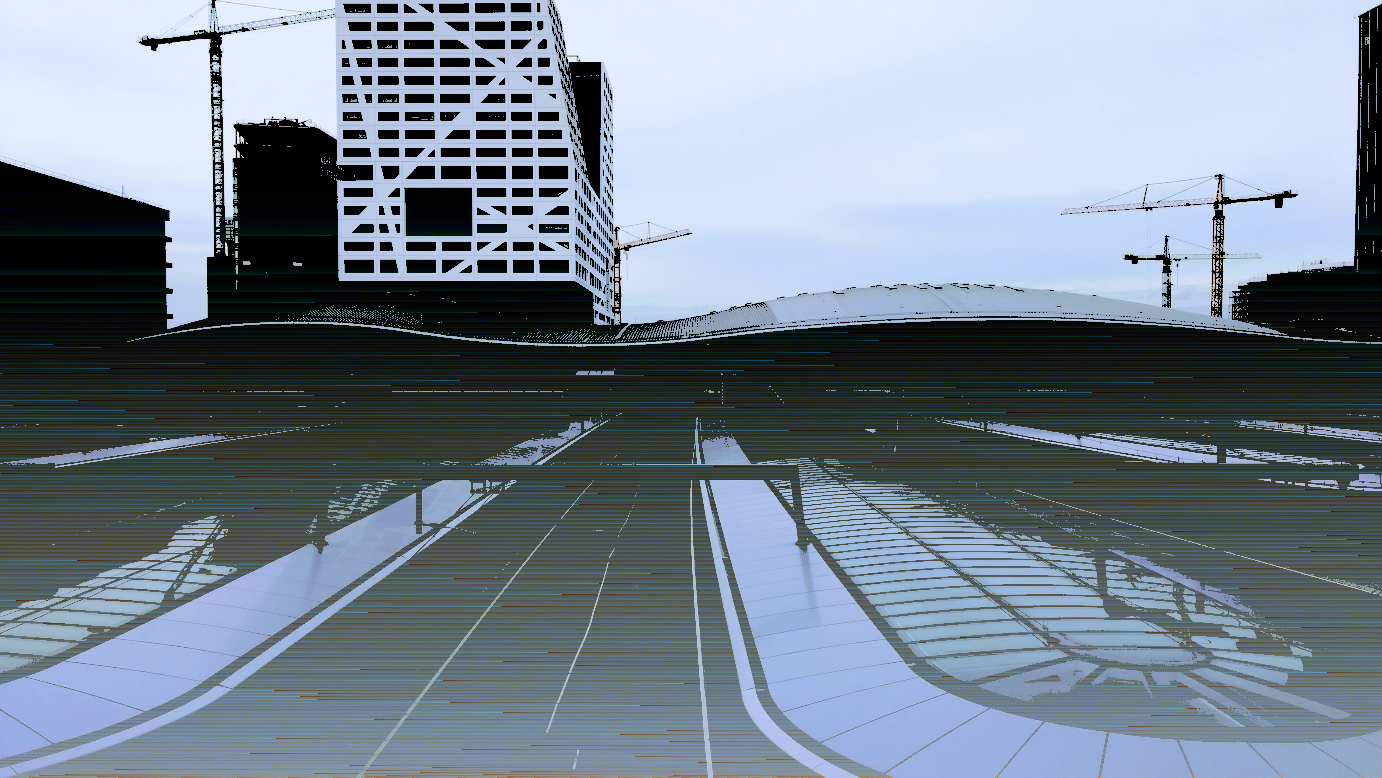
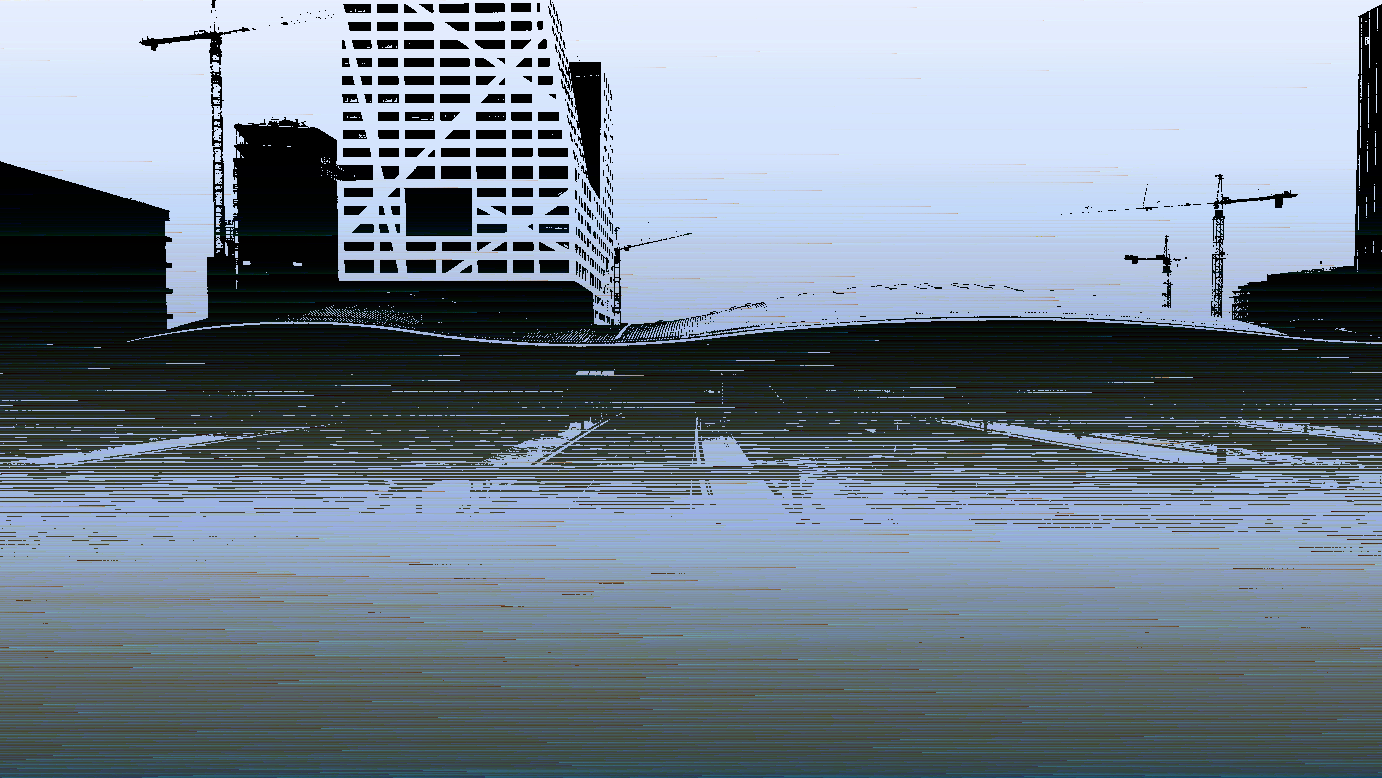
Added globalsort screenshots

diff --git a/globalsort/README.md b/globalsort/README.md
@@ -23,6 +23,10 @@ Press 'TAB' to show/hide an overlay containing an overview of all the keyboard m
 
 ![globalsort 3](docs/globalsort3.png?raw=true)
 
+![globalsort 4](docs/globalsort4.png?raw=true)
+
+![globalsort 5](docs/globalsort5.png?raw=true)
+
 Inspired by [ASDFPixelSort](https://github.com/kimasendorf/ASDFPixelSort)
 
 Written by Ward Slager, 2017
